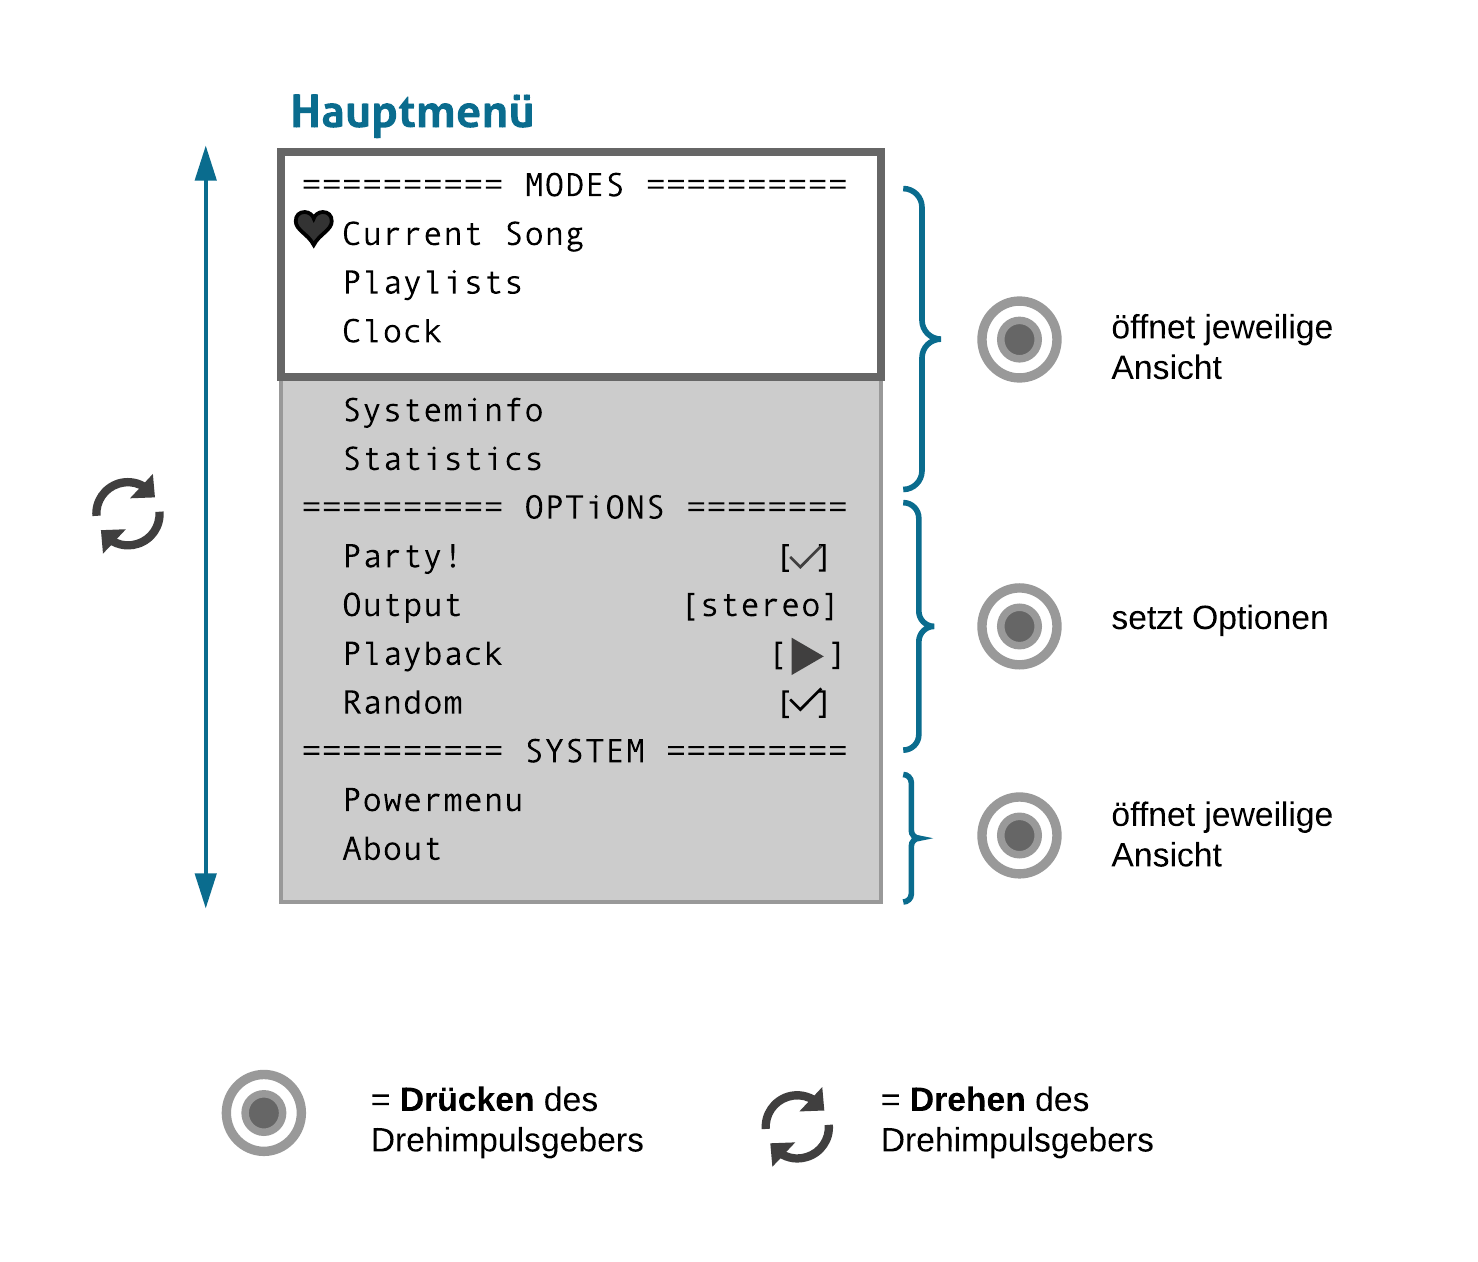
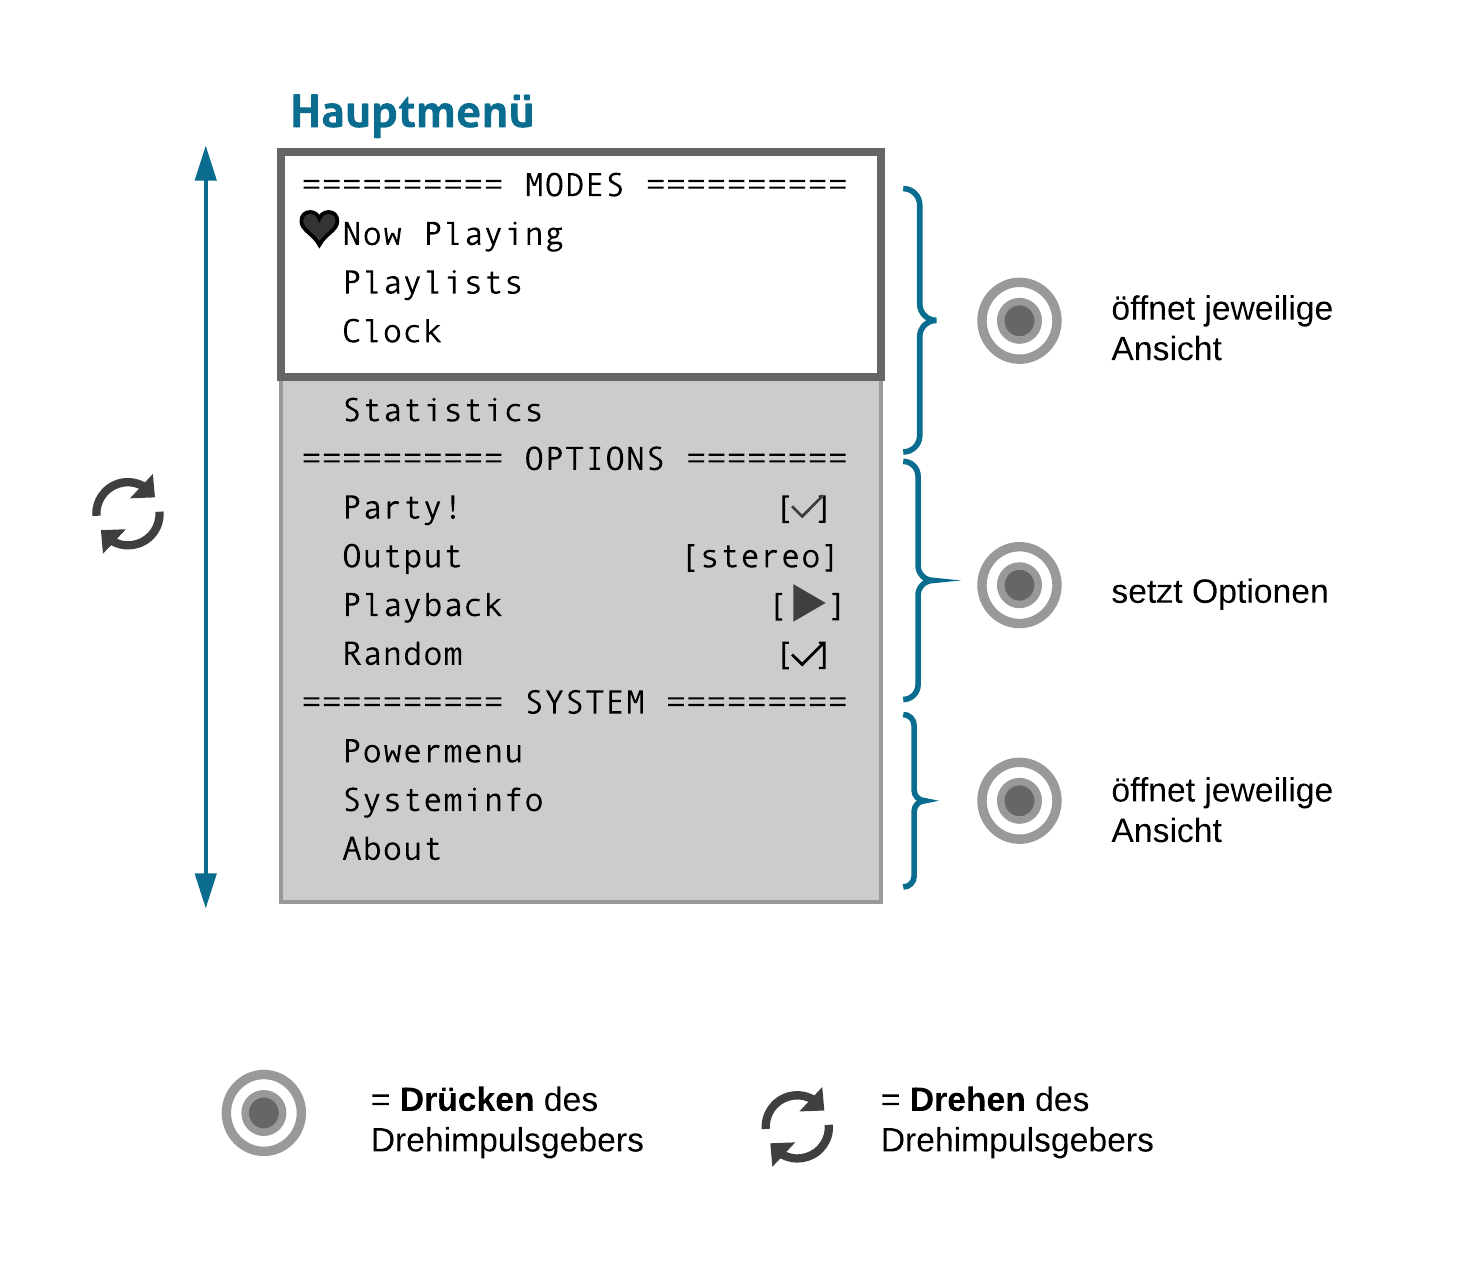
currentsong-nowplaying

diff --git a/docs/paper/05-ef-bedienkonzept.md b/docs/paper/05-ef-bedienkonzept.md
@@ -45,8 +45,6 @@ Drücken bewirkt das kontextbezogene Ausführen einer Aktion. Näheres wird bei
 den jeweiligen Menüansichten beschrieben.
 
 
-\newpage
-
 ## Menüinhalt
 
 \begin{figure}[h!]
@@ -61,16 +59,18 @@ Ein Drehen des Master-Regler navigiert zwischen den einzelnen Einträgen.
 Ein Drücken des Master-Regler öffnet den gewählten Eintrag als neue Ansicht
 (Modes, System) oder setzt direkt andere Werte (Options).
 
-### Current Song
+\newpage
+
+### Now Playing
 
 \begin{figure}[h!]
   \centering
   \includegraphics[width=1.2\textwidth]{images/currentsong.png}
-  \caption{Ansicht des Menüpunkts \emph{Current Song} für Musikstücke und Radiosender}
+  \caption{Ansicht des Menüpunkts \emph{Now Playing} für Musikstücke und Radiosender}
   \label{currentsong}
   \end{figure}
 
-Der Menüpunkt *Current Song* zeigt Informationen des aktuell gespielten Mediums
+Der Menüpunkt *Now Playing* zeigt Informationen des aktuell gespielten Mediums
 an. Es gibt eine geringfügig abweichende Ansicht für Musikstücke und für
 Radiosender. Wie in Abbildung \ref{currentsong} zu sehen ist, wird bei einem
 Musikstück der Interpret, der Titel und das Album angezeigt. Sollte die Breite
@@ -119,25 +119,6 @@ Master-Reglers navigiert innerhalb des Playlist--Ansicht. In der Ansicht
   Der Menüpunkt *Clock* (siehe Abb. \ref{clock}) zeigt die aktuelle Uhrzeit, sowie das Datum an. 
   Ein Drücken des Master-Reglers führt zurück zum Hauptmenü. 
 
-
-### Systeminfo
-
-\begin{figure}[h!]
-  \centering
-  \includegraphics[width=1.2\textwidth]{images/systeminfo.png}
-  \caption{Ansicht des Menüpunkts \emph{Systeminfo}}
-  \label{systeminfo}
-  \end{figure}
-
-  Der Menüpunkt *Systeminfo* (siehe Abb. \ref{systeminfo}) zeigt folgende Informationen zum System an:
-
-* CPU-Auslastung in Prozent.
-* Speicher-Auslastung in Prozent.
-* IP-Adresse, Systemlaufzeit,
-* WLAN-Empfangsstärke in Prozent.
-* CPU-Temperatur in Celsius.
-
-Ein Drücken des Master-Reglers führt zurück zum Hauptmenü.
 
 
 ### Statistics
@@ -188,6 +169,26 @@ Der Menüpunkt *Powermenu* (siehe Abb. \ref{powermenu}) enthält die Funktionen
 Systems. Mit *(Exit)* gelangt man zurück ins Hauptmenü.
 
 
+### Systeminfo
+
+\begin{figure}[h!]
+  \centering
+  \includegraphics[width=1.2\textwidth]{images/systeminfo.png}
+  \caption{Ansicht des Menüpunkts \emph{Systeminfo}}
+  \label{systeminfo}
+  \end{figure}
+
+  Der Menüpunkt *Systeminfo* (siehe Abb. \ref{systeminfo}) zeigt folgende Informationen zum System an:
+
+* CPU-Auslastung in Prozent.
+* Speicher-Auslastung in Prozent.
+* IP-Adresse, Systemlaufzeit,
+* WLAN-Empfangsstärke in Prozent.
+* CPU-Temperatur in Celsius.
+
+Ein Drücken des Master-Reglers führt zurück zum Hauptmenü.
+
+
 ### About
 
 \begin{figure}[h!]
@@ -209,7 +210,7 @@ Das führt zu mehr Komfortabilität in der Bedienung. Es kann direkt ins
 *Powermenu * gewechselt werden, ohne die aktuelle Anzeige verlassen zu müssen,
 um manuell zum *Powermenu* zu navigieren.
 
-In der Ansicht *Current Song* führt ein längeres Drücken (mindestens 600ms) des Master-Reglers 
+In der Ansicht *Now Playing* führt ein längeres Drücken (mindestens 600ms) des Master-Reglers 
 ins Hauptmenü. Eine Abweichung zu der Funktionsweise in den anderen Ansichten
 war notwendig, weil auch der Wechsel zwischen Pause/Play möglich sein sollte.
 Für eine möglichst intuitive Bedienung bot es sich an, dies durch ein einfaches
